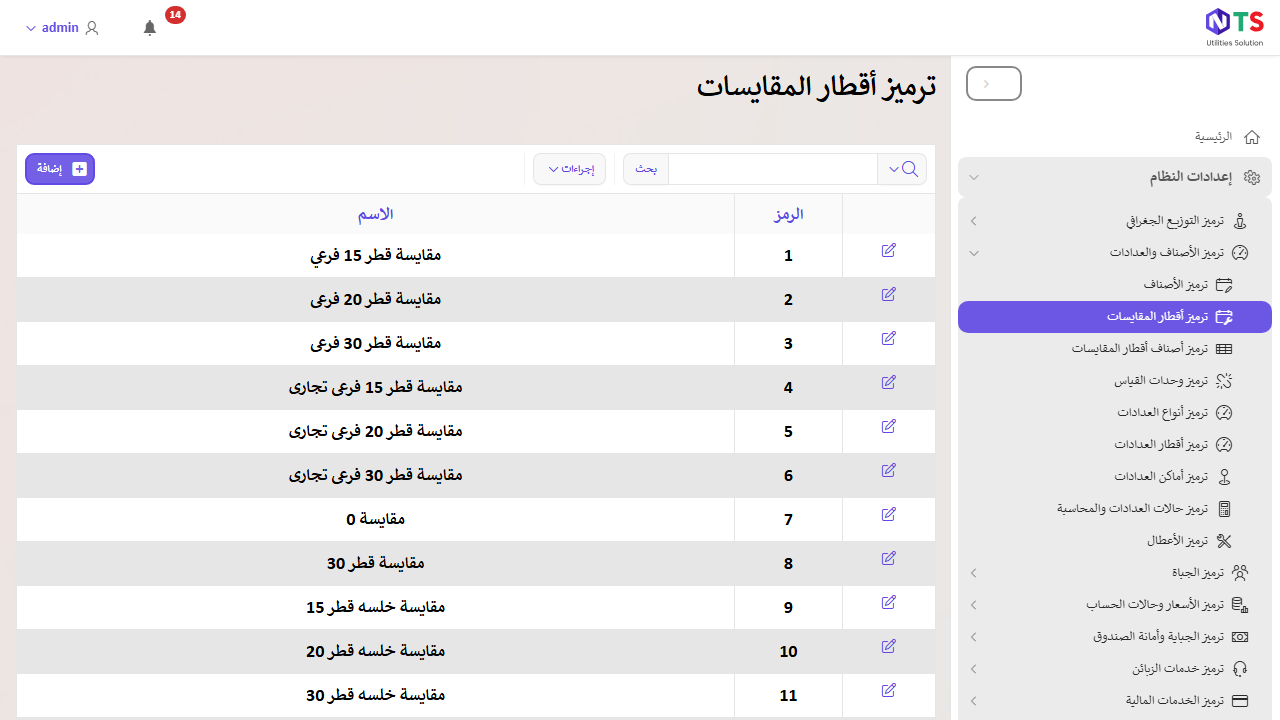
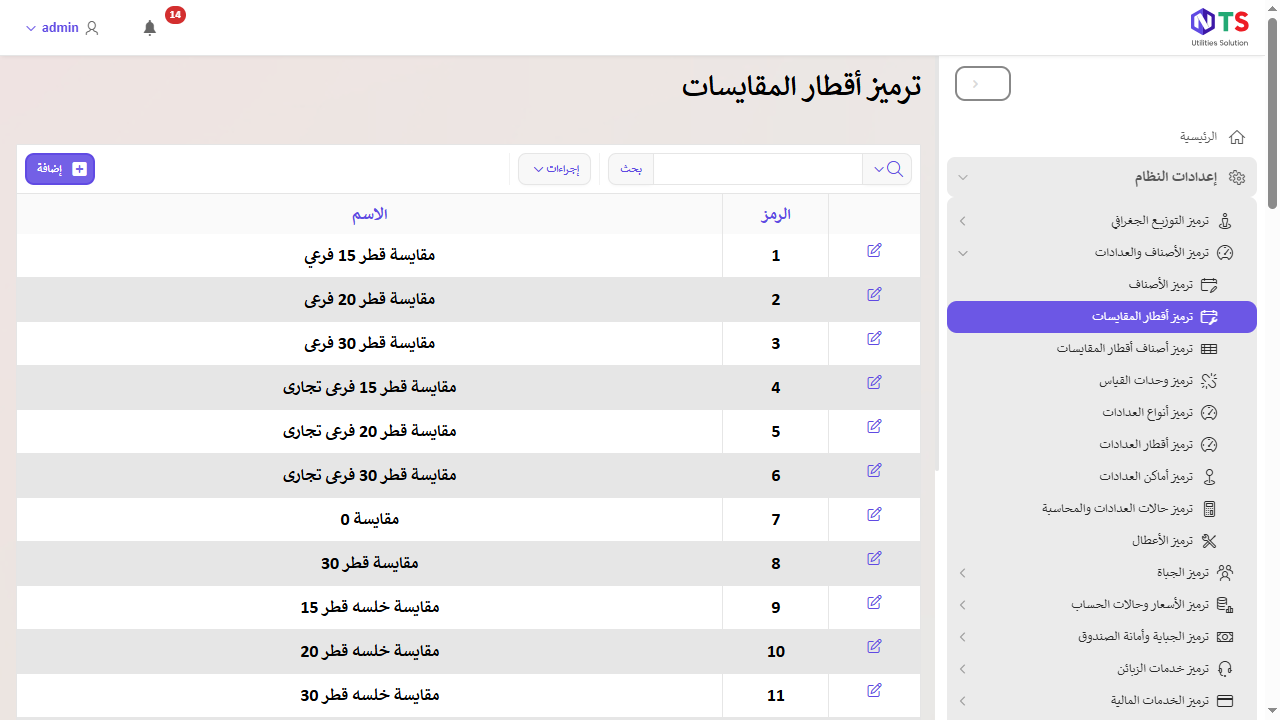
feat(tests): add complete and verified test suite for Survey Diameter Items Coding (ترميز أصناف أقطار المقايسات)

diff --git a/survey-diameter-items-coding.spec.js b/survey-diameter-items-coding.spec.js
@@ -1,0 +1,145 @@
+import { test, expect } from '@playwright/test';
+
+test.describe('فحوصات شاشة ترميز أصناف أقطار المقايسات', () => {
+
+    test.beforeEach(async ({ page }) => {
+        test.setTimeout(60000);
+
+        // 1. تسجيل الدخول
+        console.log('1. Logging in...');
+        await page.goto('https://apex.ntgcloud.net/ords/r/nts/master-app102/login', { waitUntil: 'domcontentloaded' });
+        await page.locator('#P9999_USERNAME').fill('ADMIN');
+        await page.locator('#P9999_PASSWORD').fill('admin');
+        await page.locator('#P9999_SELECT_APP').selectOption('100');
+        await page.locator('button:has-text("تسجيل الدخول")').click();
+        await page.waitForTimeout(5000);
+
+        // 2. الانتقال إلى شاشة ترميز أصناف أقطار المقايسات
+        console.log('2. Navigating to Survey Diameter Items Coding screen...');
+        await page.locator('text="إعدادات النظام"').first().click();
+        await page.waitForTimeout(1000);
+        await page.locator('text="ترميز الأصناف والعدادات"').first().click();
+        await page.waitForTimeout(1000);
+        await page.locator('text="ترميز أصناف أقطار المقايسات"').first().click();
+        await page.waitForTimeout(4000);
+
+        // 3. التأكد من عنوان الصفحة والرابط
+        await expect(page).toHaveTitle(/أصناف أقطار المقايسات/i);
+        expect(decodeURI(page.url())).toContain('ترميز-أصناف-أقطار-المقايسات');
+        console.log('Verified: Correct Title and URL for ترميز-أصناف-أقطار-المقايسات!');
+    });
+
+    // 1⃣ الفحص الأول: الضغط على حفظ في نافذة الإضافة بدون إدخال البيانات والتأكد من رسائل الخطأ
+    test('1. الضغط على حفظ في نافذة الإضافة بدون إدخال البيانات والتأكد من رسائل الخطأ', async ({ page }) => {
+        console.log('--- Test 1: Click Save without required fields ---');
+
+        // أ) الضغط على زر إضافة
+        await page.locator('button:has-text("إضافة")').click();
+        await page.waitForTimeout(3000);
+
+        // ب) التعامل مع النافذة المنبثقة داخل الـ iframe
+        const modalFrame = page.frameLocator('iframe');
+
+        // ج) الضغط على حفظ دون اختيار أي حقل
+        await modalFrame.locator('button:has-text("حفظ")').click();
+
+        // د) انتظار ظهور رسائل الخطأ والتحقق منها
+        const modalAlert = modalFrame.locator('.t-Alert');
+        await expect(modalAlert).toBeVisible({ timeout: 15000 });
+        await expect(modalAlert).toContainText('يجب إدخال قيمة قطر المقايسة');
+        await expect(modalAlert).toContainText('يجب إدخال قيمة اسم الصنف');
+        await page.waitForTimeout(1000);
+
+        // هـ) التقاط صورة لتوثيق رسائل الخطأ
+        await page.screenshot({ path: '1_diameter_item_missing_fields_error.png' });
+        console.log('Screenshot saved: 1_diameter_item_missing_fields_error.png');
+    });
+
+    // 2⃣ الفحص الثاني: اختيار قطر المقايسة واسم الصنف وإدخال السعر وحفظه بنجاح
+    test('2. اختيار قطر المقايسة واسم الصنف وإدخال السعر وحفظه بنجاح', async ({ page }) => {
+        console.log('--- Test 2: Select Diameter, Item and Save ---');
+
+        // أ) إضافة قطر مقايسة فريد وسريع لضمان عدم حدوث تكرار نهائياً
+        const uniqueDiameter = `قطر_${Date.now().toString().slice(-4)}`;
+        console.log(`Creating fresh diameter: ${uniqueDiameter}`);
+        await page.locator('text="ترميز أقطار المقايسات"').first().click();
+        await page.waitForTimeout(3000);
+
+        await page.locator('button:has-text("إضافة")').click();
+        await page.waitForTimeout(2000);
+        let modalFrame = page.frameLocator('iframe');
+        await modalFrame.locator('#P9_CONNECTION_SIZE_NAME').fill(uniqueDiameter);
+        await modalFrame.locator('button:has-text("حفظ")').click();
+        await page.waitForTimeout(3000);
+
+        // ب) العودة لشاشة ترميز أصناف أقطار المقايسات
+        await page.locator('text="ترميز أصناف أقطار المقايسات"').first().click();
+        await page.waitForTimeout(3000);
+
+        // ج) فتح نافذة الإضافة
+        await page.locator('button:has-text("إضافة")').click();
+        await page.waitForTimeout(3000);
+
+        modalFrame = page.frameLocator('iframe');
+
+        // د) اختيار قطر المقايسة الجديد عبر البحث في قائمة الـ LOV
+        console.log('Searching for fresh Diameter in LOV...');
+        await modalFrame.locator('#P11_CONNECTION_SIZE_CODE_lov_btn').click();
+        await page.waitForTimeout(1000);
+        await page.locator('input.a-PopupLOV-search:visible').fill(uniqueDiameter);
+        await page.keyboard.press('Enter');
+        await page.waitForTimeout(1500);
+        await page.locator(`[role="option"]:has-text("${uniqueDiameter}")`).click();
+        await page.waitForTimeout(1000);
+
+        // هـ) اختيار اسم الصنف من قائمة الـ LOV
+        console.log('Selecting Item from LOV...');
+        await modalFrame.locator('#P11_ITEM_CODE_lov_btn').click();
+        await page.waitForTimeout(1000);
+        await page.locator('[role="option"]:visible').first().click();
+        await page.waitForTimeout(1000);
+
+        // و) كتابة السعر
+        await modalFrame.locator('#P11_ITEM_PRICE').fill('300');
+        await page.waitForTimeout(1000);
+
+        // ز) الضغط على زر حفظ
+        await modalFrame.locator('button:has-text("حفظ")').click();
+
+        // ح) التحقق من ظهور إشعار النجاح الأخضر في الصفحة الرئيسية
+        const successBanner = page.locator('.t-Alert--success, .t-Alert:has-text("تم حفظ البيانات بنجاح")');
+        await expect(successBanner).toBeVisible({ timeout: 15000 });
+        await expect(successBanner).toContainText('تم حفظ البيانات بنجاح');
+        await page.waitForTimeout(1000);
+
+        // ط) التقاط صورة لتوثيق النجاح
+        await page.screenshot({ path: '2_valid_diameter_item_saved.png' });
+        console.log('Screenshot saved: 2_valid_diameter_item_saved.png');
+    });
+
+    // 3⃣ الفحص الثالث: فتح نافذة الإضافة والضغط على زر إلغاء والتأكد من إغلاقها
+    test('3. فتح نافذة الإضافة والضغط على زر إلغاء والتأكد من إغلاق النافذة', async ({ page }) => {
+        console.log('--- Test 3: Open Add dialog and Cancel ---');
+
+        // أ) الضغط على زر إضافة
+        await page.locator('button:has-text("إضافة")').click();
+        await page.waitForTimeout(3000);
+
+        // ب) التأكد من فتح الـ iframe
+        const modalFrame = page.frameLocator('iframe');
+        await expect(modalFrame.locator('#P11_ITEM_PRICE')).toBeVisible({ timeout: 10000 });
+
+        // ج) الضغط على زر إلغاء
+        await modalFrame.locator('button:has-text("إلغاء")').click();
+        await page.waitForTimeout(2000);
+
+        // د) التأكد من إغلاق النافذة المنبثقة واختفاء الـ iframe
+        await expect(page.locator('iframe')).toHaveCount(0);
+        console.log('Verified: Modal closed successfully upon cancel.');
+
+        // هـ) التقاط صورة لتوثيق إغلاق النافذة والعودة للشاشة الرئيسية
+        await page.screenshot({ path: '3_diameter_item_cancel_dialog.png' });
+        console.log('Screenshot saved: 3_diameter_item_cancel_dialog.png');
+    });
+
+});
